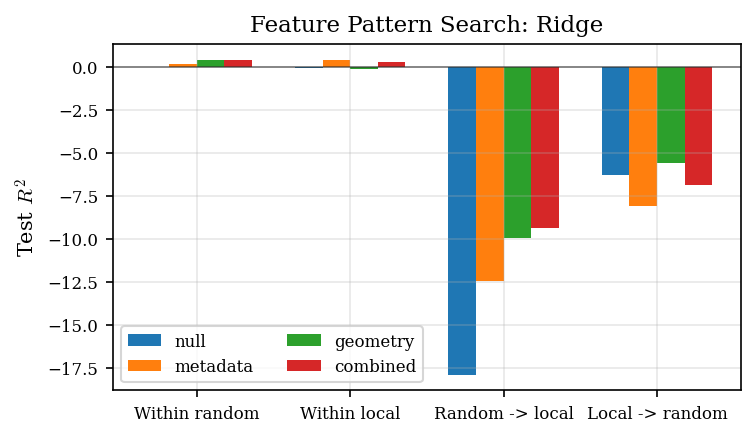
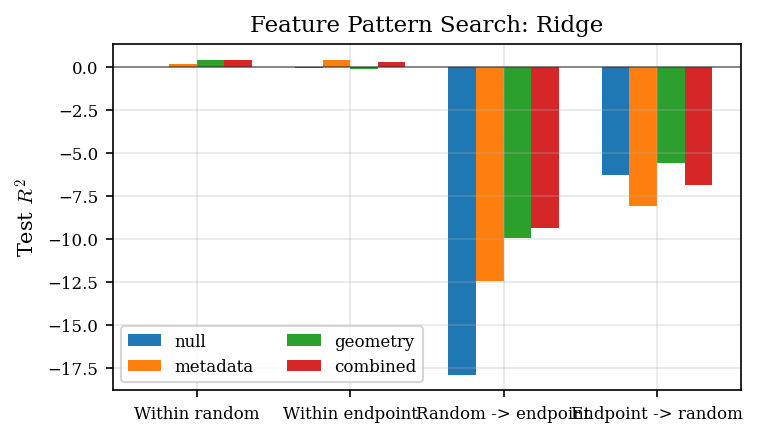
Persist hostile-landscape root groups

diff --git a/experiments/sys-landscape/feature-pattern-search/analyze.py b/experiments/sys-landscape/feature-pattern-search/analyze.py
@@ -58,7 +58,7 @@ SUMMARY_MD = EXPERIMENT_DIR / "feature_pattern_search_summary.md"
 RIDGE_PNG = EXPERIMENT_DIR / "feature_pattern_search_ridge.png"
 RF_PNG = EXPERIMENT_DIR / "feature_pattern_search_rf.png"
 
-LOCAL_DATASETS = {
+ENDPOINT_DATASETS = {
     "gradient_ascent_general",
     "gradient_ascent_products",
     "variable_f_ascent",
@@ -69,9 +69,9 @@ RANDOM_DATASETS = {
 }
 SURFACES = [
     ("within_random", "Within random"),
-    ("within_local", "Within local"),
-    ("random_to_local", "Random -> local"),
-    ("local_to_random", "Local -> random"),
+    ("within_endpoint", "Within endpoint"),
+    ("random_to_endpoint", "Random -> endpoint"),
+    ("endpoint_to_random", "Endpoint -> random"),
 ]
 FEATURE_BLOCKS = ["null", "metadata", "geometry", "combined"]
 MODEL_SPECS = [("ridge", "Ridge"), ("rf", "Random forest")]
@@ -89,7 +89,9 @@ class JoinedRow:
 
 
 def cv_group_id(state: dict, regime: str) -> str:
-    if regime == "local" and state.get("source_name"):
+    if state.get("root_group_id"):
+        return str(state["root_group_id"])
+    if regime == "endpoint" and state.get("source_name"):
         return str(state["source_name"])
     return str(state.get("lineage_id") or state["state_id"])
 
@@ -217,8 +219,8 @@ def load_joined_rows(normalized_dir: Path) -> tuple[list[JoinedRow], list[dict]]
     rows: list[JoinedRow] = []
     for state in states:
         dataset = state["dataset"]
-        regime = "local" if dataset in LOCAL_DATASETS else "random"
-        if dataset not in LOCAL_DATASETS | RANDOM_DATASETS:
+        regime = "endpoint" if dataset in ENDPOINT_DATASETS else "random"
+        if dataset not in ENDPOINT_DATASETS | RANDOM_DATASETS:
             raise ValueError(f"unexpected dataset {dataset}")
         poly = polytopes[state["poly_id"]]
         rows.append(
@@ -328,7 +330,7 @@ def evaluate_transfer(
 
 def run_evaluations(rows: list[JoinedRow]) -> list[dict]:
     random_rows = [row for row in rows if row.regime == "random"]
-    local_rows = [row for row in rows if row.regime == "local"]
+    endpoint_rows = [row for row in rows if row.regime == "endpoint"]
     results: list[dict] = []
 
     for model_name, _model_label in MODEL_SPECS:
@@ -343,30 +345,30 @@ def run_evaluations(rows: list[JoinedRow]) -> list[dict]:
                     "rmse": rmse,
                 }
             )
-            r2, rmse = evaluate_cv(local_rows, block, model_name)
+            r2, rmse = evaluate_cv(endpoint_rows, block, model_name)
             results.append(
                 {
-                    "surface": "within_local",
+                    "surface": "within_endpoint",
                     "model": model_name,
                     "block": block,
                     "r2": r2,
                     "rmse": rmse,
                 }
             )
-            r2, rmse = evaluate_transfer(random_rows, local_rows, block, model_name)
+            r2, rmse = evaluate_transfer(random_rows, endpoint_rows, block, model_name)
             results.append(
                 {
-                    "surface": "random_to_local",
+                    "surface": "random_to_endpoint",
                     "model": model_name,
                     "block": block,
                     "r2": r2,
                     "rmse": rmse,
                 }
             )
-            r2, rmse = evaluate_transfer(local_rows, random_rows, block, model_name)
+            r2, rmse = evaluate_transfer(endpoint_rows, random_rows, block, model_name)
             results.append(
                 {
-                    "surface": "local_to_random",
+                    "surface": "endpoint_to_random",
                     "model": model_name,
                     "block": block,
                     "r2": r2,
@@ -395,7 +397,7 @@ def write_summary(
 ) -> None:
     counts_by_regime = {
         regime: sum(1 for row in joined_rows if row.regime == regime)
-        for regime in ["random", "local"]
+        for regime in ["random", "endpoint"]
     }
     counts_by_dataset: dict[str, int] = {}
     for row in joined_rows:
@@ -413,7 +415,7 @@ def write_summary(
         f"- normalized input source: {normalized_source_label}",
         f"- joined rows: `{len(joined_rows)}`",
         f"- random rows: `{counts_by_regime['random']}`",
-        f"- local rows: `{counts_by_regime['local']}`",
+        f"- endpoint rows: `{counts_by_regime['endpoint']}`",
         "- dataset counts:",
     ]
     for dataset, count in sorted(counts_by_dataset.items()):
@@ -431,7 +433,7 @@ def write_summary(
             "",
             "## Metrics",
             "",
-            "Reported metrics are test-set `R^2` and RMSE. Within-regime results use grouped CV keyed by shared source ancestry in the local regime and by `state_id` in the random regime. Transfer results train on one regime and test on the other.",
+            "Reported metrics are test-set `R^2` and RMSE. Within-regime results use grouped CV keyed by shared source ancestry in the endpoint regime and by `state_id` in the random regime. Transfer results train on one regime and test on the other.",
             "",
         ]
     )
@@ -471,20 +473,20 @@ def write_summary(
     ridge_rows = { (row["surface"], row["block"]): row for row in results if row["model"] == "ridge" }
     geometry_random = ridge_rows[("within_random", "geometry")]
     metadata_random = ridge_rows[("within_random", "metadata")]
-    geometry_local = ridge_rows[("within_local", "geometry")]
-    metadata_local = ridge_rows[("within_local", "metadata")]
-    combined_random_to_local = ridge_rows[("random_to_local", "combined")]
-    geometry_local_to_random = ridge_rows[("local_to_random", "geometry")]
+    geometry_endpoint = ridge_rows[("within_endpoint", "geometry")]
+    metadata_endpoint = ridge_rows[("within_endpoint", "metadata")]
+    combined_random_to_endpoint = ridge_rows[("random_to_endpoint", "combined")]
+    geometry_endpoint_to_random = ridge_rows[("endpoint_to_random", "geometry")]
     lines.extend(
         [
             "",
             "## Interpretation",
             "",
             f"- within-random ridge: metadata `R^2={format_metric(metadata_random['r2'])}`, geometry `R^2={format_metric(geometry_random['r2'])}`",
-            f"- within-local ridge: metadata `R^2={format_metric(metadata_local['r2'])}`, geometry `R^2={format_metric(geometry_local['r2'])}`",
-            f"- random-to-local transfer with combined ridge: `R^2={format_metric(combined_random_to_local['r2'])}`",
-            f"- local-to-random transfer with geometry ridge: `R^2={format_metric(geometry_local_to_random['r2'])}`",
-            "- cheap geometry summaries help inside the random regime, but they do not explain the local-endpoint regime and do not transfer across regimes.",
+            f"- within-endpoint ridge: metadata `R^2={format_metric(metadata_endpoint['r2'])}`, geometry `R^2={format_metric(geometry_endpoint['r2'])}`",
+            f"- random-to-endpoint transfer with combined ridge: `R^2={format_metric(combined_random_to_endpoint['r2'])}`",
+            f"- endpoint-to-random transfer with geometry ridge: `R^2={format_metric(geometry_endpoint_to_random['r2'])}`",
+            "- cheap geometry summaries help inside the random regime, but they do not explain the endpoint regime and do not transfer across regimes.",
             "- treat this as a bounded first pass: cheap geometry summaries only, no skeleton or orbit enrichments yet.",
         ]
     )

diff --git a/experiments/sys-landscape/normalized-dataset/main.rs b/experiments/sys-landscape/normalized-dataset/main.rs
@@ -128,6 +128,7 @@ struct StateRow {
     optimizer: String,
     backend: String,
     source_name: String,
+    root_group_id: String,
     #[serde(skip_serializing_if = "Option::is_none")]
     seed_index: Option<usize>,
     #[serde(skip_serializing_if = "Option::is_none")]
@@ -476,6 +477,24 @@ fn infer_variable_f_lineage_id(row: &VariableFRow, source_name: &str) -> String 
     source_name.to_string()
 }
 
+fn infer_root_group_id(
+    dataset: &str,
+    family: &str,
+    source_name: &str,
+    role: &str,
+) -> String {
+    if role == "random_sample" {
+        return format!("{dataset}::{source_name}");
+    }
+    if family == "general" && source_name.starts_with("general_") {
+        return format!("general::{source_name}");
+    }
+    if family == "lagrangian_product" && source_name.starts_with("products_") {
+        return format!("lagrangian_product::{source_name}");
+    }
+    format!("{dataset}::{source_name}")
+}
+
 fn infer_variable_f_parent_state_id(row: &VariableFRow) -> Option<String> {
     row.direct_parent_trial
         .as_ref()
@@ -620,6 +639,12 @@ fn main() {
             optimizer: "none".into(),
             backend: "ehz_capacity".into(),
             source_name: row.name.clone(),
+            root_group_id: infer_root_group_id(
+                "random_sample",
+                "general",
+                &row.name,
+                "random_sample",
+            ),
             seed_index: None,
             lineage_id: None,
             parent_state_id: None,
@@ -668,6 +693,12 @@ fn main() {
             optimizer: "none".into(),
             backend: "ehz_capacity_billiard".into(),
             source_name: row.name.clone(),
+            root_group_id: infer_root_group_id(
+                "random_product_sample",
+                "lagrangian_product",
+                &row.name,
+                "random_sample",
+            ),
             seed_index: None,
             lineage_id: None,
             parent_state_id: None,
@@ -725,6 +756,12 @@ fn main() {
             search_space: "general".into(),
             optimizer: "gradient_ascent".into(),
             backend: "ehz_capacity".into(),
+            root_group_id: infer_root_group_id(
+                "gradient_ascent_general",
+                "general",
+                &source_name,
+                "ascent_endpoint",
+            ),
             source_name,
             seed_index: Some(row.seed_index),
             lineage_id: Some(lineage),
@@ -797,6 +834,12 @@ fn main() {
             search_space: "lagrangian_product".into(),
             optimizer: "projected_gradient_ascent".into(),
             backend: "ehz_capacity".into(),
+            root_group_id: infer_root_group_id(
+                "gradient_ascent_products",
+                "lagrangian_product",
+                &source_name,
+                "ascent_endpoint",
+            ),
             source_name,
             seed_index: Some(row.seed_index),
             lineage_id: Some(lineage),
@@ -861,6 +904,12 @@ fn main() {
             search_space: row.path.clone(),
             optimizer: "gradient_ascent".into(),
             backend: "ehz_capacity".into(),
+            root_group_id: infer_root_group_id(
+                "variable_f_ascent",
+                "general",
+                &source_name,
+                "continuation_endpoint",
+            ),
             source_name,
             seed_index: None,
             lineage_id: Some(lineage_id),

diff --git a/experiments/sys-landscape/feature-pattern-search/feature_pattern_search_summary.md b/experiments/sys-landscape/feature-pattern-search/feature_pattern_search_summary.md
@@ -5,7 +5,7 @@
 - normalized input source: temporary refresh via `cargo run -p exp-sys-landscape --release --bin sys-normalized-dataset`
 - joined rows: `282`
 - random rows: `170`
-- local rows: `112`
+- endpoint rows: `112`
 - dataset counts:
   - `gradient_ascent_general`: `10`
   - `gradient_ascent_products`: `12`
@@ -22,7 +22,7 @@
 
 ## Metrics
 
-Reported metrics are test-set `R^2` and RMSE. Within-regime results use grouped CV keyed by shared source ancestry in the local regime and by `state_id` in the random regime. Transfer results train on one regime and test on the other.
+Reported metrics are test-set `R^2` and RMSE. Within-regime results use grouped CV keyed by shared source ancestry in the endpoint regime and by `state_id` in the random regime. Transfer results train on one regime and test on the other.
 
 ### Ridge
 
@@ -32,18 +32,18 @@ Reported metrics are test-set `R^2` and RMSE. Within-regime results use grouped 
 | Within random | `metadata` | 0.1906 | 0.1847 |
 | Within random | `geometry` | 0.4260 | 0.1556 |
 | Within random | `combined` | 0.4214 | 0.1562 |
-| Within local | `null` | -0.0227 | 0.1227 |
-| Within local | `metadata` | 0.4367 | 0.0911 |
-| Within local | `geometry` | -0.1145 | 0.1281 |
-| Within local | `combined` | 0.3014 | 0.1014 |
-| Random -> local | `null` | -17.8854 | 0.5272 |
-| Random -> local | `metadata` | -12.4344 | 0.4446 |
-| Random -> local | `geometry` | -9.9589 | 0.4016 |
-| Random -> local | `combined` | -9.3303 | 0.3899 |
-| Local -> random | `null` | -6.2430 | 0.5526 |
-| Local -> random | `metadata` | -8.0876 | 0.6190 |
-| Local -> random | `geometry` | -5.5594 | 0.5259 |
-| Local -> random | `combined` | -6.8803 | 0.5764 |
+| Within endpoint | `null` | -0.0227 | 0.1227 |
+| Within endpoint | `metadata` | 0.4367 | 0.0911 |
+| Within endpoint | `geometry` | -0.1145 | 0.1281 |
+| Within endpoint | `combined` | 0.3014 | 0.1014 |
+| Random -> endpoint | `null` | -17.8854 | 0.5272 |
+| Random -> endpoint | `metadata` | -12.4344 | 0.4446 |
+| Random -> endpoint | `geometry` | -9.9589 | 0.4016 |
+| Random -> endpoint | `combined` | -9.3303 | 0.3899 |
+| Endpoint -> random | `null` | -6.2430 | 0.5526 |
+| Endpoint -> random | `metadata` | -8.0876 | 0.6190 |
+| Endpoint -> random | `geometry` | -5.5594 | 0.5259 |
+| Endpoint -> random | `combined` | -6.8803 | 0.5764 |
 
 ### Random forest
 
@@ -53,34 +53,34 @@ Reported metrics are test-set `R^2` and RMSE. Within-regime results use grouped 
 | Within random | `metadata` | 0.1345 | 0.1910 |
 | Within random | `geometry` | 0.4174 | 0.1567 |
 | Within random | `combined` | 0.4143 | 0.1571 |
-| Within local | `null` | -0.0227 | 0.1227 |
-| Within local | `metadata` | 0.4377 | 0.0910 |
-| Within local | `geometry` | -0.3199 | 0.1394 |
-| Within local | `combined` | 0.2889 | 0.1023 |
-| Random -> local | `null` | -17.8854 | 0.5272 |
-| Random -> local | `metadata` | -13.1447 | 0.4562 |
-| Random -> local | `geometry` | -9.9360 | 0.4012 |
-| Random -> local | `combined` | -9.7571 | 0.3979 |
-| Local -> random | `null` | -6.2430 | 0.5526 |
-| Local -> random | `metadata` | -6.8134 | 0.5739 |
-| Local -> random | `geometry` | -3.8119 | 0.4504 |
-| Local -> random | `combined` | -5.8791 | 0.5385 |
+| Within endpoint | `null` | -0.0227 | 0.1227 |
+| Within endpoint | `metadata` | 0.4377 | 0.0910 |
+| Within endpoint | `geometry` | -0.3199 | 0.1394 |
+| Within endpoint | `combined` | 0.2889 | 0.1023 |
+| Random -> endpoint | `null` | -17.8854 | 0.5272 |
+| Random -> endpoint | `metadata` | -13.1447 | 0.4562 |
+| Random -> endpoint | `geometry` | -9.9360 | 0.4012 |
+| Random -> endpoint | `combined` | -9.7571 | 0.3979 |
+| Endpoint -> random | `null` | -6.2430 | 0.5526 |
+| Endpoint -> random | `metadata` | -6.8134 | 0.5739 |
+| Endpoint -> random | `geometry` | -3.8119 | 0.4504 |
+| Endpoint -> random | `combined` | -5.8791 | 0.5385 |
 
 ## Top States
 
 | State | Dataset | Regime | sys |
 |-------|---------|--------|-----|
-| `variable_f::rq1_general_9_p0` | `variable_f_ascent` | `local` | 0.906316 |
-| `variable_f::rq1_general_9_p4` | `variable_f_ascent` | `local` | 0.904680 |
-| `variable_f::rq1_general_9_p1` | `variable_f_ascent` | `local` | 0.903770 |
-| `variable_f::rq2_seed0_pathC_f11rand` | `variable_f_ascent` | `local` | 0.903176 |
-| `ga_general::general_9` | `gradient_ascent_general` | `local` | 0.902965 |
+| `variable_f::rq1_general_9_p0` | `variable_f_ascent` | `endpoint` | 0.906316 |
+| `variable_f::rq1_general_9_p4` | `variable_f_ascent` | `endpoint` | 0.904680 |
+| `variable_f::rq1_general_9_p1` | `variable_f_ascent` | `endpoint` | 0.903770 |
+| `variable_f::rq2_seed0_pathC_f11rand` | `variable_f_ascent` | `endpoint` | 0.903176 |
+| `ga_general::general_9` | `gradient_ascent_general` | `endpoint` | 0.902965 |
 
 ## Interpretation
 
 - within-random ridge: metadata `R^2=0.1906`, geometry `R^2=0.4260`
-- within-local ridge: metadata `R^2=0.4367`, geometry `R^2=-0.1145`
-- random-to-local transfer with combined ridge: `R^2=-9.3303`
-- local-to-random transfer with geometry ridge: `R^2=-5.5594`
-- cheap geometry summaries help inside the random regime, but they do not explain the local-endpoint regime and do not transfer across regimes.
+- within-endpoint ridge: metadata `R^2=0.4367`, geometry `R^2=-0.1145`
+- random-to-endpoint transfer with combined ridge: `R^2=-9.3303`
+- endpoint-to-random transfer with geometry ridge: `R^2=-5.5594`
+- cheap geometry summaries help inside the random regime, but they do not explain the endpoint regime and do not transfer across regimes.
 - treat this as a bounded first pass: cheap geometry summaries only, no skeleton or orbit enrichments yet.

diff --git a/research/sys-landscape/design/feature-pattern-search.md b/research/sys-landscape/design/feature-pattern-search.md
@@ -22,13 +22,16 @@ Implementation status:
 - the converter currently relies on exact cache rows for `vertices_rational`,
   so the shared `experiments/sys-landscape/cache.jsonl` must already contain the
   fixed-`F` ascent endpoints; this session refreshed that cache contract
+- 2026-04-18: `states.jsonl` gained an explicit `root_group_id` ancestry key so
+  grouped CV and leakage control no longer depend on Python-side lineage
+  heuristics
 - 2026-04-18: first bounded modeling pass landed at
   `experiments/sys-landscape/feature-pattern-search/analyze.py`
 - current first-pass result:
   cheap dual-vertex geometry summaries help within the random regime
   (`R^2 ≈ 0.43` with ridge, vs `0.19` for the metadata baseline),
-  but they fail within the local-endpoint regime (`R^2 ≈ -0.11`) and show
-  no random/local transfer (`R^2 < -5` on both transfer surfaces)
+  but they fail within the endpoint regime (`R^2 ≈ -0.11`) and show
+  no random/endpoint transfer (`R^2 < -5` on both transfer surfaces)
 - current implication:
   there is no evidence yet for a cheap transferable pattern; the next
   enrichment step, if pursued, should be richer local-max geometry
